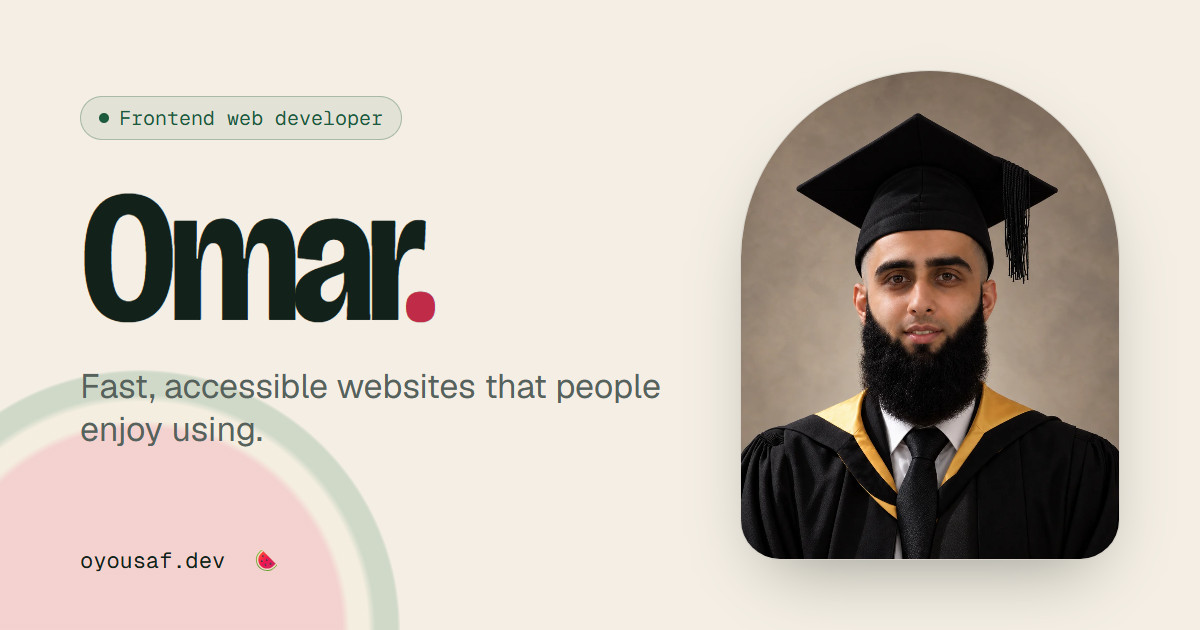
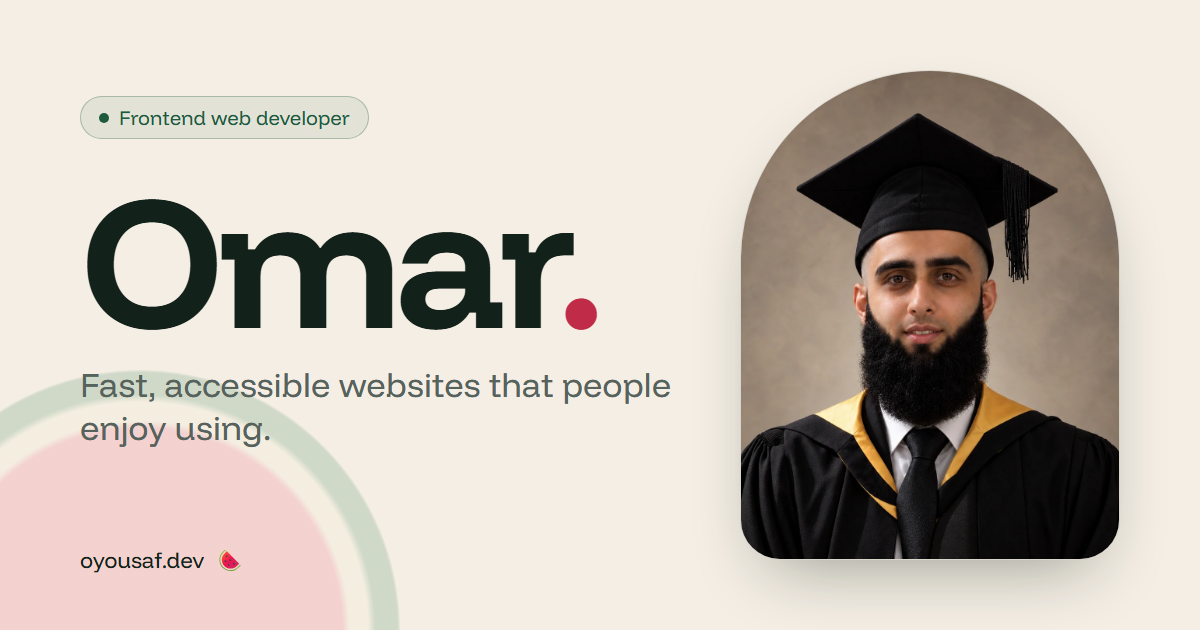
Switch the site to Funnel Display
Bricolage Grotesque and Geist were shared with several other projects,
so the portfolio now uses one typeface of its own. The share image is
re-rendered to match, and the hero leads with freelancing since 2021
rather than the graduation year.

diff --git a/src/styles/global.css b/src/styles/global.css
@@ -43,9 +43,10 @@
   --color-flesh: var(--flesh);
   --color-cream: var(--cream);
 
-  --font-display: var(--font-bricolage), ui-sans-serif, system-ui, sans-serif;
-  --font-sans: var(--font-geist), ui-sans-serif, system-ui, sans-serif;
-  --font-mono: var(--font-geist-mono), ui-monospace, "SFMono-Regular", Consolas, monospace;
+  --font-display: var(--font-funnel-display), ui-sans-serif, system-ui, sans-serif;
+  --font-sans: var(--font-funnel-display), ui-sans-serif, system-ui, sans-serif;
+  /* One typeface throughout; the "mono" name is kept for the label role. */
+  --font-mono: var(--font-funnel-display), ui-sans-serif, system-ui, sans-serif;
 }
 
 @theme {
@@ -87,7 +88,6 @@
 
   body {
     @apply bg-paper font-sans text-ink antialiased;
-    font-feature-settings: "ss01", "cv11";
     text-rendering: optimizeLegibility;
   }
 
@@ -132,8 +132,7 @@
   .display-xl {
     font-size: clamp(3.25rem, 1.6rem + 7.5vw, 9rem);
     line-height: 0.9;
-    letter-spacing: -0.045em;
-    font-variation-settings: "wdth" 85;
+    letter-spacing: -0.035em;
   }
 
   .display-lg {
